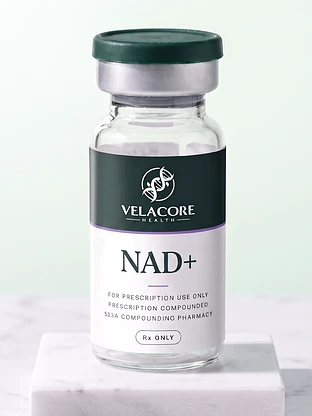
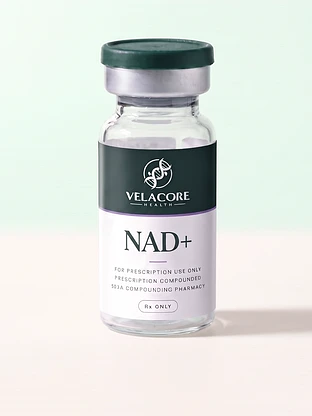
Studio price box photos for Microdosing, NAD+, Glutathione, Sermorelin and Semaglutide oral

Changed region(s): [[0.0865, 0.0625, 1.0, 1.0], [0.0577, 0.6562, 0.2885, 0.7812], [0.0, 0.7812, 0.0288, 0.8125]]

diff --git a/docs/HANDOFF.md b/docs/HANDOFF.md
@@ -47,6 +47,8 @@ Bryan is non-technical: explain steps plainly and don't assume knowledge.
 
 ## Status as of Nov 13, 2026 (newest; read first)
 
+Nov 20 2026, all seven studio price box photos done, local, vc-reviewer PASS: Microdosing GLP-1, NAD+, Glutathione, Sermorelin and Semaglutide oral join Tirzepatide and Semaglutide, every label checked enlarged with a flat-topped 5 in 503A. Sources live only in assets-in/products/studio/, gitignored; if that folder is lost, make_thumbs.py falls back to the marble photos, so it needs a backup outside the repo. NAD+ is now serif in the price box only; the menu thumbs and main NAD+ image still use the older plain-font label, Dourado's call. Next with Dourado: studio versions of the hidden Sexual Health and Women's HRT bottles, kept as _hold files off the site; those pages stay unbuilt until OpenLoop's written product list. Not pushed: 40ad240, bf58edb, 1aa00bd and this commit wait for Dourado's push OK.
+
 Nov 19 2026, menu note and studio shots batch, local, vc-reviewer PASS: product image alts start "Illustration:"; the illustration note also sits in the side panel foot and the desktop mega menu; tools/make_thumbs.py builds the price box picture from assets-in/products/studio/<name>.jpg when it exists, a 90 percent cut that keeps the shadow, else from the marble photo. Studio shots done and label-checked: Tirzepatide, Semaglutide. Next: Microdosing, sent to Dourado with its photo; then NAD+, Glutathione, Sermorelin, Semaglutide oral. Until all seven are in, five price boxes still show the marble riser. Reviewer notes, Dourado's call, not blocking: the note says the medication "may look different", while dispensed vials never carry Velacore branding, so a firmer line such as one saying it comes with the pharmacy's own label would serve LegitScript better; that goes through vc-copy. Not pushed: 40ad240, bf58edb and this commit wait for Dourado's push OK.
 
 Nov 19 2026, layout batch ready, local, vc-reviewer PASS after one block: the logo links home everywhere and on the home page glides to the top with no #top, since #top pointed at the sticky header; one image note per page, worded "on this page", on the first phone screen above the first pictures; the program hero photo, collapsed to a 2 px dot on phones since 7210e0b, is restored; tablets 701 to 1000 px stack the hero cards; the weight band price line is centered; headings use text-wrap balance; the price box shows a full-product portrait, thumbs/<slug>-full.webp from tools/make_thumbs.py. Next batch: the illustration note in the shared menu panel and mega menu, alt text starting "Illustration of". In progress with Dourado: seven Gemini studio shots with no marble and a soft shadow for the price box, prompt in docs/gemini-queue.md, one at a time; each comes back through vc-reviewer. Dourado's tablet screenshot of the misalignment never arrived; asked him to resend.

diff --git a/docs/gemini-queue.md b/docs/gemini-queue.md
@@ -8,7 +8,7 @@ Gemini video and image credits reset at 9:21 PM on Nov 16. Video gave two clips 
 
 Dourado, Nov 19: the price box picture on phones should show the whole product with no marble, just a soft shadow under it, the way Hims shows its products. Seven images, one per chat, in this order: tirzepatide, semaglutide, microdosing, nad, glutathione, sermorelin, semaglutide-oral. For each, start a new chat, Images on, aspect ratio 3:4, and attach that product's current photo from `assets-in\products`, for example `tirzepatide.jpg`. Save each download in Downloads as Gemini names it. Vale checks every label line enlarged, files it as `assets-in\products\studio\<name>.jpg` and `tools/make_thumbs.py` builds the price box picture from it. Nothing goes live before vc-reviewer.
 
-Done: Tirzepatide and Semaglutide, both passed the label check Nov 19. Next: Microdosing GLP-1.
+Done, all seven: Tirzepatide, Semaglutide, Microdosing GLP-1, NAD+, Glutathione, Sermorelin and Semaglutide oral, all passed the label check Nov 19 and 20. NAD+ took three tries: the plain prompt left the marble, a follow-up broke the 5 in 503A, and what worked was a new chat that swapped only the name on the approved Semaglutide studio photo. Glutathione passed first try with the same name swap. Sermorelin took two tries: the first had a rounded 5 in 503A; adding "the 5 in 503A must keep its flat top bar" fixed it. Semaglutide oral passed first try with two attachments: the bottle photo, then the approved Semaglutide studio photo as the scene reference only.
 
 ```
 Edit the attached photo. Keep the vial exactly as it is: the same glass, the same deep pine green cap with its silver crimp, the same label, the same size, the same angle and the same daylight from the upper left. Remove the white marble riser and the marble tabletop completely. Stand the vial directly on a seamless, very light, warm white studio surface that curves up into the same soft mint to white background, with no visible horizon line. Add one soft, natural contact shadow directly under the base of the vial, fading gently toward the lower right, like a clean studio product photograph. Keep the vertical 3 by 4 framing with the vial centered and about 60 percent of the frame height, with even space above and below it.
